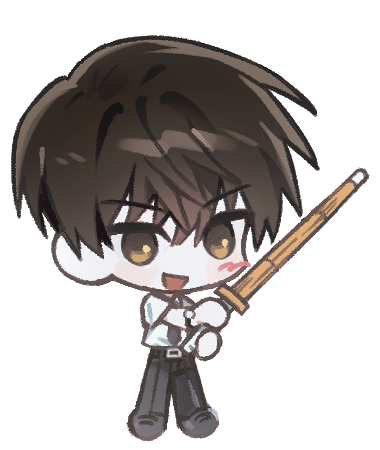
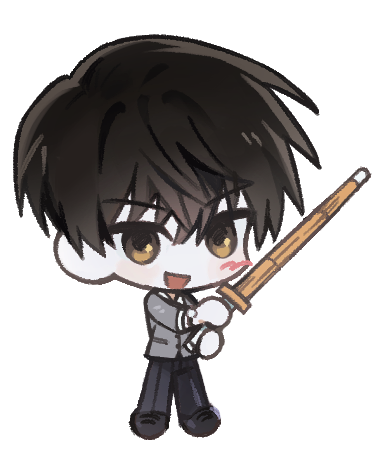
.

diff --git a/js/script.js b/js/script.js
@@ -119,7 +119,7 @@ document.addEventListener("DOMContentLoaded", function() {
       teg2:"#부끄러움 많고 어설픈",
       teg3:"#사랑에 빠져있음!",
       imageLeft: "image/moe_head.png", //전신
-      imageRight: "https://via.placeholder.com/380x450?text=380x450",  //sd
+      imageRight: "image/moe.png",  //sd
       description: `
          <span style='display: block; color:#FFE182; font-size: 30pt; font-weight: 700; margin: 0 0 10px 0;'>Profile</span>
         <span style='display: block; margin: 0 0 30px 0; height: 160px;'>
@@ -145,8 +145,8 @@ document.addEventListener("DOMContentLoaded", function() {
       teg1:"#능글맞은",
       teg2:"#명랑한",
       teg3:"#성실한",
-      imageLeft: "https://via.placeholder.com/250x250?text=250x250", //전신
-      imageRight: "https://via.placeholder.com/380x450?text=380x450",  //sd
+      imageLeft: "image/takanashi_head.png", //전신
+      imageRight: "image/takanashi.png",  //sd
       description: `
          <span style='display: block; color:#D6C0AF; font-size: 30pt; font-weight: 700; margin: 0 0 10px 0;'>Profile</span>
         <span style='display: block; margin: 0 0 30px 0; height: 160px;'>
@@ -172,8 +172,8 @@ document.addEventListener("DOMContentLoaded", function() {
       teg1:"#소심한",
       teg2:"#수줍음 많은",
       teg3:"#순진한",
-      imageLeft: "https://via.placeholder.com/250x250?text=250x250", //전신
-      imageRight: "https://via.placeholder.com/380x450?text=380x450",  //sd
+      imageLeft: "image/konomi_head.png", //전신
+      imageRight: "image/konomi.png",  //sd
       description: `
          <span style='display: block; color:#F99AC1; font-size: 30pt; font-weight: 700; margin: 0 0 10px 0;'>Profile</span>
         <span style='display: block; margin: 0 0 30px 0; height: 160px;'>
@@ -200,7 +200,7 @@ document.addEventListener("DOMContentLoaded", function() {
       teg2:"#자존심 강한",
       teg3:"#냉혈한",
       imageLeft: "image/endo_head.png", //전신
-      imageRight: "https://via.placeholder.com/380x450?text=380x450",  //sd
+      imageRight: "image/endo.png",  //sd
       description: `
          <span style='display: block; color:#B5A6B8; font-size: 30pt; font-weight: 700; margin: 0 0 10px 0;'>Profile</span>
         <span style='display: block; margin: 0 0 30px 0; height: 160px;'>
@@ -212,8 +212,8 @@ document.addEventListener("DOMContentLoaded", function() {
         <span style='display: block; text-align:right;  margin: 0 21px 10px 0;'>
         키 : 176cm<br>
         혈액형 : B형<br>
-        취미 : 정원 산책<br>
-        특기 : 식물 관리, 독서
+        취미 : 정원 산책, 독서<br>
+        특기 : 식물 관리
         </span>
       `
       ,

diff --git a/character.html b/character.html
@@ -35,8 +35,8 @@
   <img src="image/chiharu_head.png" alt="사카가미 치하루" class="character-face" onclick="showCharacter('chiharu')">
   <img src="image/shigeto_head.png" alt="시게토 미사오" class="character-face" onclick="showCharacter('shigeto')">
   <img src="image/moe_head.png" alt="혼다 모에" class="character-face" onclick="showCharacter('moe')">
-  <img src="https://via.placeholder.com/100" alt="타카나시 료마" class="character-face" onclick="showCharacter('takanashi')">
-  <img src="https://via.placeholder.com/100" alt="사사모리 코노미" class="character-face" onclick="showCharacter('konomi')">
+  <img src="image/takanashi_head.png" alt="타카나시 료마" class="character-face" onclick="showCharacter('takanashi')">
+  <img src="image/konomi_head.png" alt="사사모리 코노미" class="character-face" onclick="showCharacter('konomi')">
   <img src="image/endo_head.png" alt="엔도 미츠키" class="character-face" onclick="showCharacter('endo')">
 </div>
 

diff --git a/index.html b/index.html
@@ -130,6 +130,7 @@
       <li>로고 | LETTER&nbsp;&nbsp;&nbsp;&nbsp;&nbsp;&nbsp;&nbsp;&nbsp;캐릭터 디자인 | JINN DOKO</li><br>
       <li class="cv">
         <ul>
+          <li>보이스 캐스팅</li>
           <li>이치노세 요헤이 | cv. 토리우미 코스케&nbsp;&nbsp;&nbsp;&nbsp;&nbsp;&nbsp;&nbsp;&nbsp;요시노 린 | cv. 안자이 치카</li>
           <li>사카가미 치하루 | cv. 사토 사토미&nbsp;&nbsp;&nbsp;&nbsp;&nbsp;&nbsp;&nbsp;&nbsp;시게토 미사오 | cv. 카와니시 켄고</li>
           <li>혼다 모에 | cv. 쿠기미야 리에&nbsp;&nbsp;&nbsp;&nbsp;&nbsp;&nbsp;&nbsp;&nbsp;타카나시 료마 | cv. 치바 쇼야</li>
